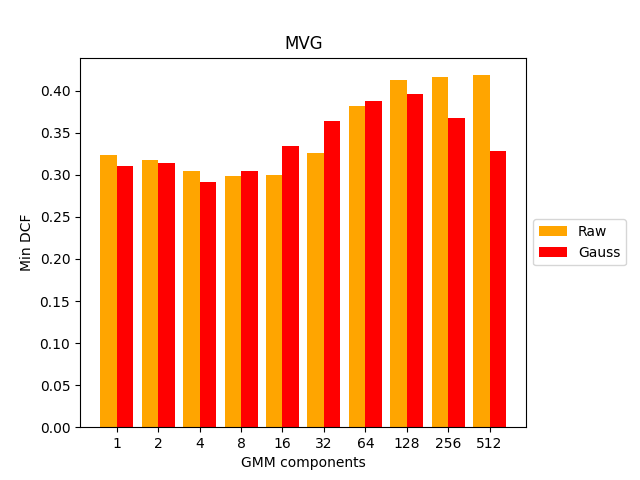
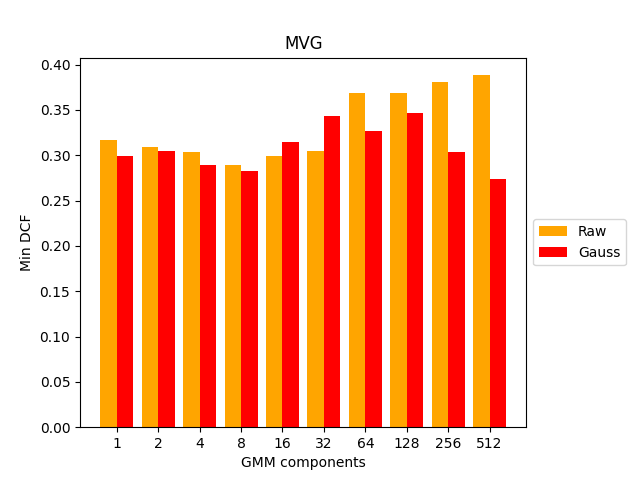
Updated plots GMM

diff --git a/src/mainGMM.py b/src/mainGMM.py
@@ -3,12 +3,13 @@ import numpy as np
 from GMM import GMMClass
 from dataset import load_db, NUM_CLASSES
 from MEASUREPrediction import MEASUREPrediction, showBayesPlot
-from utils import split_K_folds
+from utils import split_K_folds, mrow, mcol
 from stats import gauss_data
 from PCA import PCA
+from LOGRegression import LOGREGClass
 
 # Fixed paramaters 
-K = 5       # Number of K-folds
+K = 5                       # Number of K-folds
 threshold = 10**(-6)
 psi = 0.01
 
@@ -42,12 +43,15 @@ def compute_GMM_LLR(D, L, G, alpha, gauss=False, model='MVG', PCAm=None):
     return S, L
 
 
+
+
 def compute_GMM_DCFMin(D, L, p, G, alpha, gauss=False, model='MVG', PCAm=None):
     S, L = compute_GMM_LLR(D, L, G, alpha, gauss, model, PCAm)
-    
+
     MP = MEASUREPrediction(p, 1.0, 1.0, S)
     MP.computeDCF(L, NUM_CLASSES)
     _, DCFMin = MP.getDCFMin()
+    DCFAct = MP.getDCFNorm(L, NUM_CLASSES)
 
     if gauss:
         strgauss = 'Gau'
@@ -55,8 +59,31 @@ def compute_GMM_DCFMin(D, L, p, G, alpha, gauss=False, model='MVG', PCAm=None):
         strgauss = 'Raw'
 
     print(f'MinDCF: {DCFMin:.4f} -> {model} ({strgauss}) (p={p}) (alpha={alpha}) G={G}')
+    print(f'ActDCF: {DCFAct:.4f} -> {model} ({strgauss}) (p={p}) (alpha={alpha}) G={G}')
 
     return DCFMin
+
+def computeGMM_DCF_EVAL(DTR, LTR, DTE, LTE, G, alpha, gauss=False, model='MVG', PCAm=None, title=''):
+    # PRE-PROCESSING
+    if gauss == True:
+        DTR = gauss_data(DTR)
+        DTE = gauss_data(DTE)
+
+    if PCAm != None:
+        DTR = PCA(DTR, PCAm)
+        DTE = PCA(DTE, PCAm)
+
+    # TRAINING
+    GM = GMMClass(DTR, LTR, G, threshold, alpha, psi, model)
+    GM.computeGMMs()
+
+    # EVALUATION
+    S = GM.computeLLR(DTE)
+    
+    minDCF, PI, MP, actDCF = showBayesPlot(S, LTE, NUM_CLASSES, title, False, 'red')
+    MP[0].showStatsByThres(PI, LTE, 2)
+    print("minDCF:", minDCF, " | actDCF:", actDCF, "| PI:", PI)
+
 
 def main_tuning_alpha():
     D, L = load_db()
@@ -129,12 +156,12 @@ def main_best_models():
     alpha = 0.1
     
     for p in [0.5, 0.1, 0.9]:
+        compute_GMM_DCFMin(D, L, p, 512, alpha, True, 'MVG',) 
         compute_GMM_DCFMin(D, L, p, 8, alpha, True, 'TCG')
-        compute_GMM_DCFMin(D, L, p, 4, alpha, True, 'MVG')
 
 
-def main_BayesPlot(train=True):
-    D, L = load_db(train)
+def main_BayesPlot():
+    D, L = load_db()
     alpha = 0.1
 
     plt.figure()
@@ -142,39 +169,61 @@ def main_BayesPlot(train=True):
     # 1 TCG Gaussianized 8G
     print("TCG Gau 8G (alpha=0.1):")
     LLR, LTE = compute_GMM_LLR(D, L, 8, alpha, True, 'TCG')
-    minDCF, PI, MP, actDCF = showBayesPlot(LLR, LTE, NUM_CLASSES, "TCG Gaussianized 8G (alpha=0.1)", False)
+    minDCF, PI, MP, actDCF = showBayesPlot(LLR, LTE, NUM_CLASSES, "TCG Gaussianized 8G (alpha=0.1)", False, 'red')
     MP[0].showStatsByThres(PI,LTE,2)
     print("minDCF:", minDCF, " | actDCF:", actDCF)
 
-    # 2 MVG Gaussianized 4G
-    print("MVG Gau 4G (alpha=0.1):")
-    LLR, LTE = compute_GMM_LLR(D, L, 4, alpha, True, 'MVG')
-    minDCF, PI, MP, actDCF = showBayesPlot(LLR, LTE, NUM_CLASSES, "MVG Gaussianized 4G (alpha=0.1)", False)
+    # 2 MVG Gaussianized 512G
+    print("MVG Gau 512G (alpha=0.1):")
+    LLR, LTE = compute_GMM_LLR(D, L, 512, alpha, True, 'MVG')
+    minDCF, PI, MP, actDCF = showBayesPlot(LLR, LTE, NUM_CLASSES, "MVG Gaussianized 512G (alpha=0.1)", False, 'blue')
     MP[0].showStatsByThres(PI,LTE,2)
     print("minDCF:", minDCF, " | actDCF:", actDCF)
 
-    if train:
-        plt.savefig('./src/plots/GMM/GMM_bayes_DCF_trainSet.png')
-    else:
-        plt.savefig('./src/plots/GMM/GMM_bayes_DCF_testSet.png')
+    plt.savefig('./src/plots/GMM/gmm_bayes_DCF_trainSet.png')
     plt.show()
 
+
+def main_comparison_EVAL_VAL():
+    DTR, LTR = load_db(train=True)
+    DTE, LTE = load_db(train=False)
+
+    # MODEL
+    G = 8
+    alpha = 0.1
+    gauss = True
+    model = 'TCG'
+    PCAm = None
+    title = 'TCG Gaussianized 512G'
+
+    plt.figure()
+
+    print(title, 'EVAL')
+    computeGMM_DCF_EVAL(DTR, LTR, DTE, LTE, G, alpha, gauss=gauss, model=model, PCAm=PCAm, title=(str(title+' [EVAL]')))
+    
+    print(title, "VAL:")
+    LLR, LTE = compute_GMM_LLR(DTR, LTR, G, alpha, gauss=gauss, model=model)
+    minDCF, PI, MP, actDCF = showBayesPlot(LLR, LTE, NUM_CLASSES, str(title+' [VAL]'), False, 'blue')
+    MP[0].showStatsByThres(PI,LTE,2)
+    print("minDCF:", minDCF, " | actDCF:", actDCF, "| PI:", PI)
+
+    plt.savefig('./src/plots/GMM/gmm_bayes_TCG_GAU_8G_VAL_vs_EVAL.png')
+    plt.show()
 
 if __name__ == '__main__':
     # main_tuning_alpha()
     # main_find_best_G()
     # main_best_models()
-    main_BayesPlot()
+    # main_BayesPlot()
+    main_comparison_EVAL_VAL()
+
 
 '''
 # BEST MODELS
 
-(TCG) Gau -> minDCF = 0.2871125611745514, G=8
-(MVG) Gau -> minDCF = 0.2911908646003263, G=4
-
-All models permorm better at middle-low values of G (4,8,16).
-The Naive Bayes assumption doesn't perform well both with or without tied covariance.
-Tied covariance models perform better with Gaussianization on middle-low values of G. With higher
-values Minimum DCF tend to increase compared to raw models.
+1) (MVG) Gau -> minDCF = 0.274, G=512
+2) (TCG) Gau -> minDCF = 0.280, G=8
 
 '''
+
+
